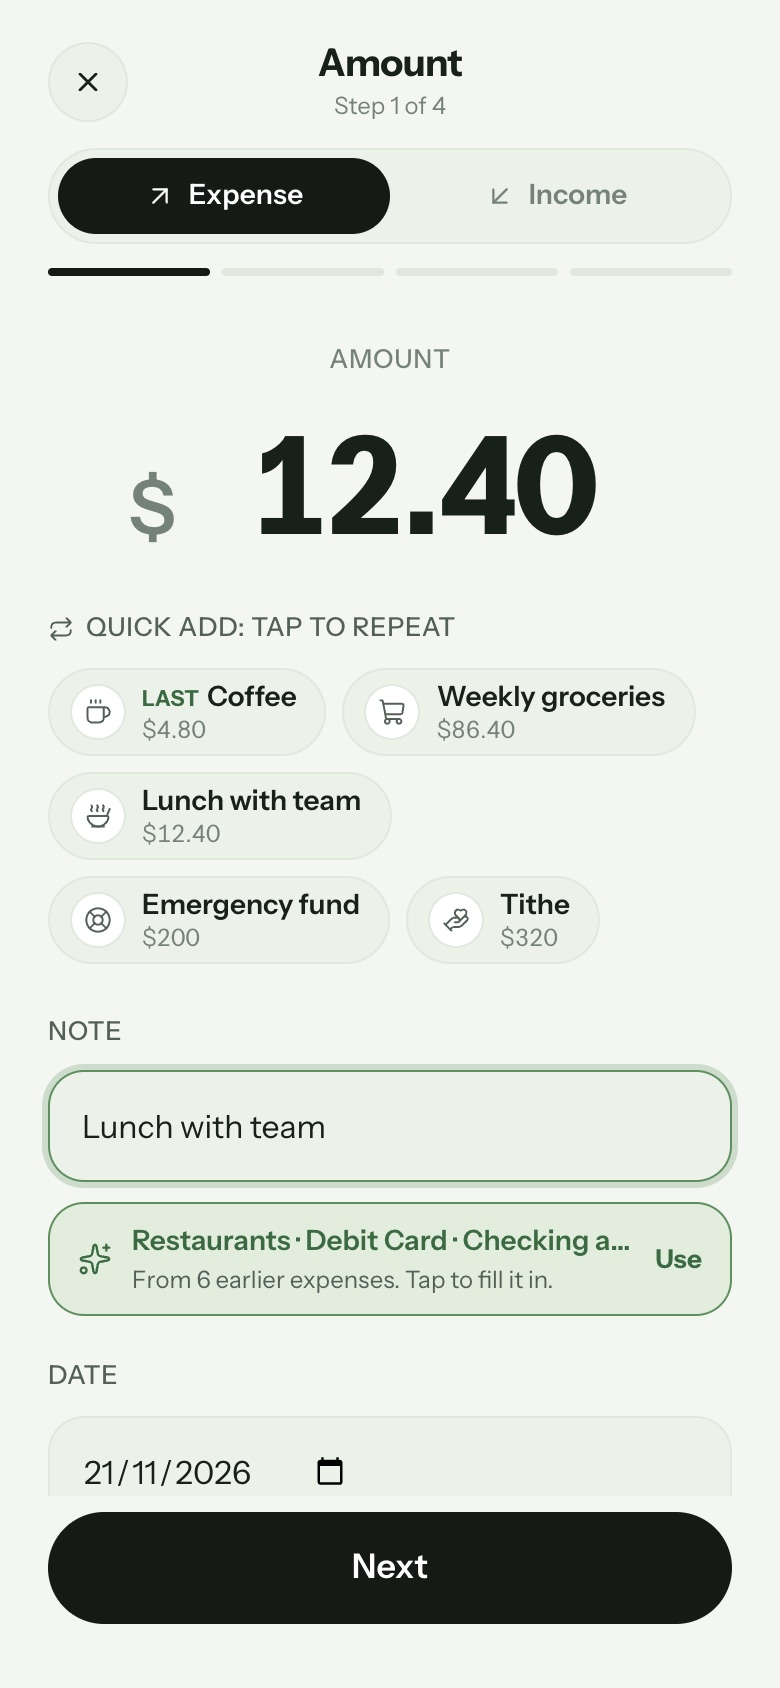
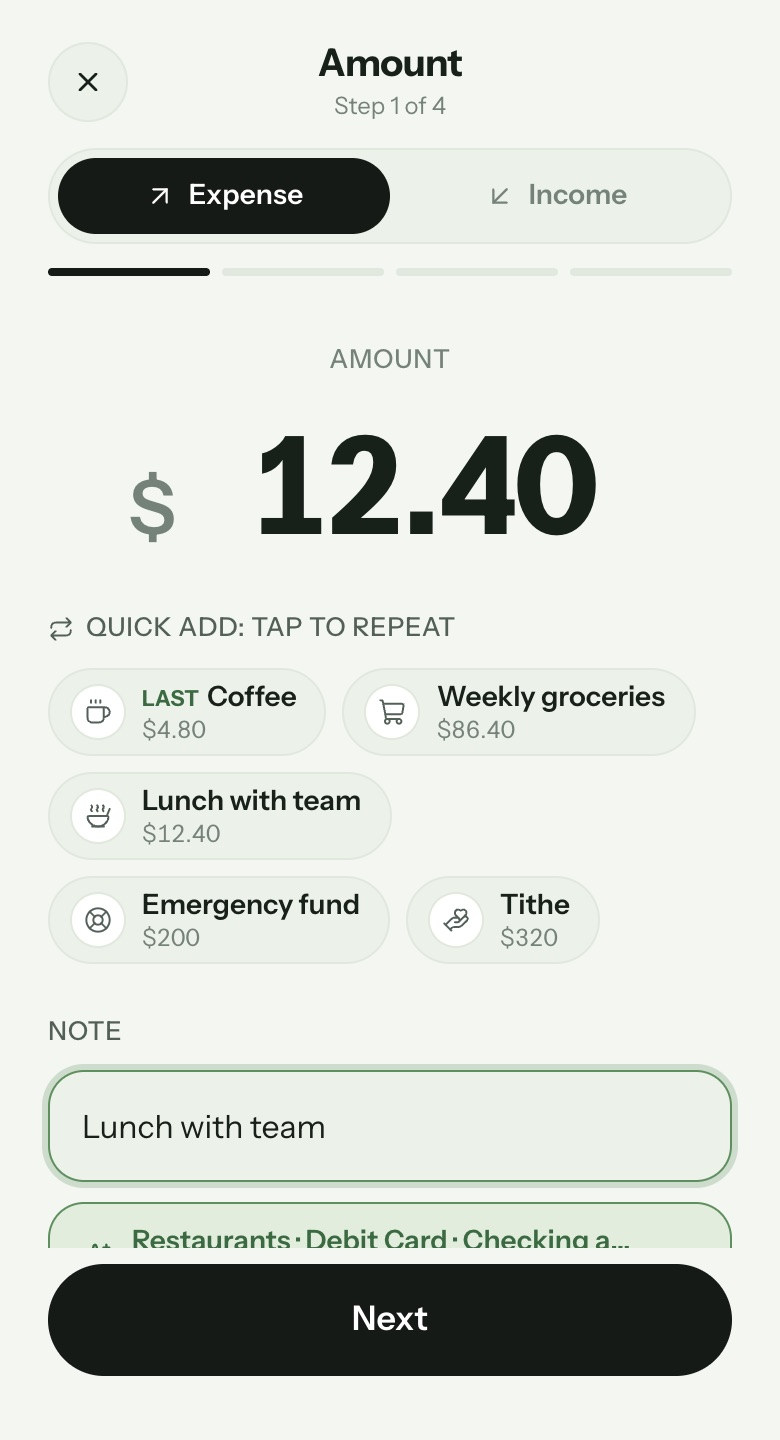
Landing page: wider, shorter phones (screens recaptured at 390x720), floating card no longer covers the amount, FAQ on pricing

diff --git a/welcome/index.html b/welcome/index.html
@@ -124,11 +124,11 @@
                 <div class="screen shot-screen">
                   <div class="statusbar"><span>9:41</span><span class="batt"></span></div>
                   <div class="shot-view tscreen">
-                  <div class="scr on play"><img src="./shots/entry-amount.jpg" alt="Add an expense screen in the app" width="390" height="844" loading="lazy" /></div>
-                  <div class="scr"><img src="./shots/entry-category.jpg" alt="Choose and reflect screen in the app" width="390" height="844" loading="lazy" /></div>
-                  <div class="scr"><img src="./shots/budgets.jpg" alt="Plan your month screen in the app" width="390" height="844" loading="lazy" /></div>
-                  <div class="scr"><img src="./shots/stewardship.jpg" alt="Give first screen in the app" width="390" height="844" loading="lazy" /></div>
-                  <div class="scr"><img src="./shots/loans.jpg" alt="Pay off loans screen in the app" width="390" height="844" loading="lazy" /></div>
+                  <div class="scr on play"><img src="./shots/entry-amount.jpg" alt="Add an expense screen in the app" width="390" height="720" loading="lazy" /></div>
+                  <div class="scr"><img src="./shots/entry-category.jpg" alt="Choose and reflect screen in the app" width="390" height="720" loading="lazy" /></div>
+                  <div class="scr"><img src="./shots/budgets.jpg" alt="Plan your month screen in the app" width="390" height="720" loading="lazy" /></div>
+                  <div class="scr"><img src="./shots/stewardship.jpg" alt="Give first screen in the app" width="390" height="720" loading="lazy" /></div>
+                  <div class="scr"><img src="./shots/loans.jpg" alt="Pay off loans screen in the app" width="390" height="720" loading="lazy" /></div>
                   </div>
                 </div>
               </div>
@@ -338,6 +338,10 @@
             <h2 class="reveal">Good to know.</h2>
           </div>
           <div class="qa">
+            <details class="reveal">
+              <summary>Is it free?</summary>
+              <p>Yes, Faithful Portion is free to use right now. Later on we may add an optional paid plan with extra features, but we plan to always keep a free version for everyday tracking. If anything changes, people on the waiting list will hear about it first.</p>
+            </details>
             <details class="reveal">
               <summary>Does it connect to my bank?</summary>
               <p>No. You add each expense yourself, on purpose. It's quick, and it keeps you aware of every choice. You don't need to share any bank logins.</p>

diff --git a/welcome/welcome.css b/welcome/welcome.css
@@ -2013,7 +2013,7 @@ details p {
   flex-direction: column;
 }
 .statusbar {
-  height: 44px;
+  height: 38px;
   flex: none;
   display: flex;
   align-items: center;
@@ -2049,7 +2049,7 @@ details p {
 }
 .shot-view {
   position: relative;
-  aspect-ratio: 390 / 844;
+  aspect-ratio: 390 / 720;
   overflow: hidden;
   background: #f3f6f1;
 }
@@ -2064,7 +2064,7 @@ details p {
   perspective: 1400px;
 }
 .hero-phone {
-  width: 340px;
+  width: 372px;
   max-width: 84vw;
   transform-origin: 50% 80%;
   animation: phone-in 1.2s cubic-bezier(0.2, 0.8, 0.2, 1) both, phone-float 7s ease-in-out 1.4s infinite;
@@ -2101,8 +2101,8 @@ details p {
   animation: shot-in 0.8s cubic-bezier(0.2, 0.8, 0.2, 1) 1s forwards, floaty2 6s ease-in-out 2s infinite;
 }
 .fs-2 {
-  bottom: 10%;
-  left: max(-12px, calc(50% - 310px));
+  bottom: -2%;
+  left: max(-12px, calc(50% - 320px));
   animation: shot-in 0.8s cubic-bezier(0.2, 0.8, 0.2, 1) 1.3s forwards, floaty2 6.5s ease-in-out 2.4s infinite;
 }
 @keyframes shot-in {
@@ -2138,7 +2138,7 @@ details p {
   14%, 100% { opacity: 1; transform: none; }
 }
 .tour-device .phone {
-  width: 330px;
+  width: 360px;
   max-width: 84vw;
 }
 .shot-view.tscreen {
